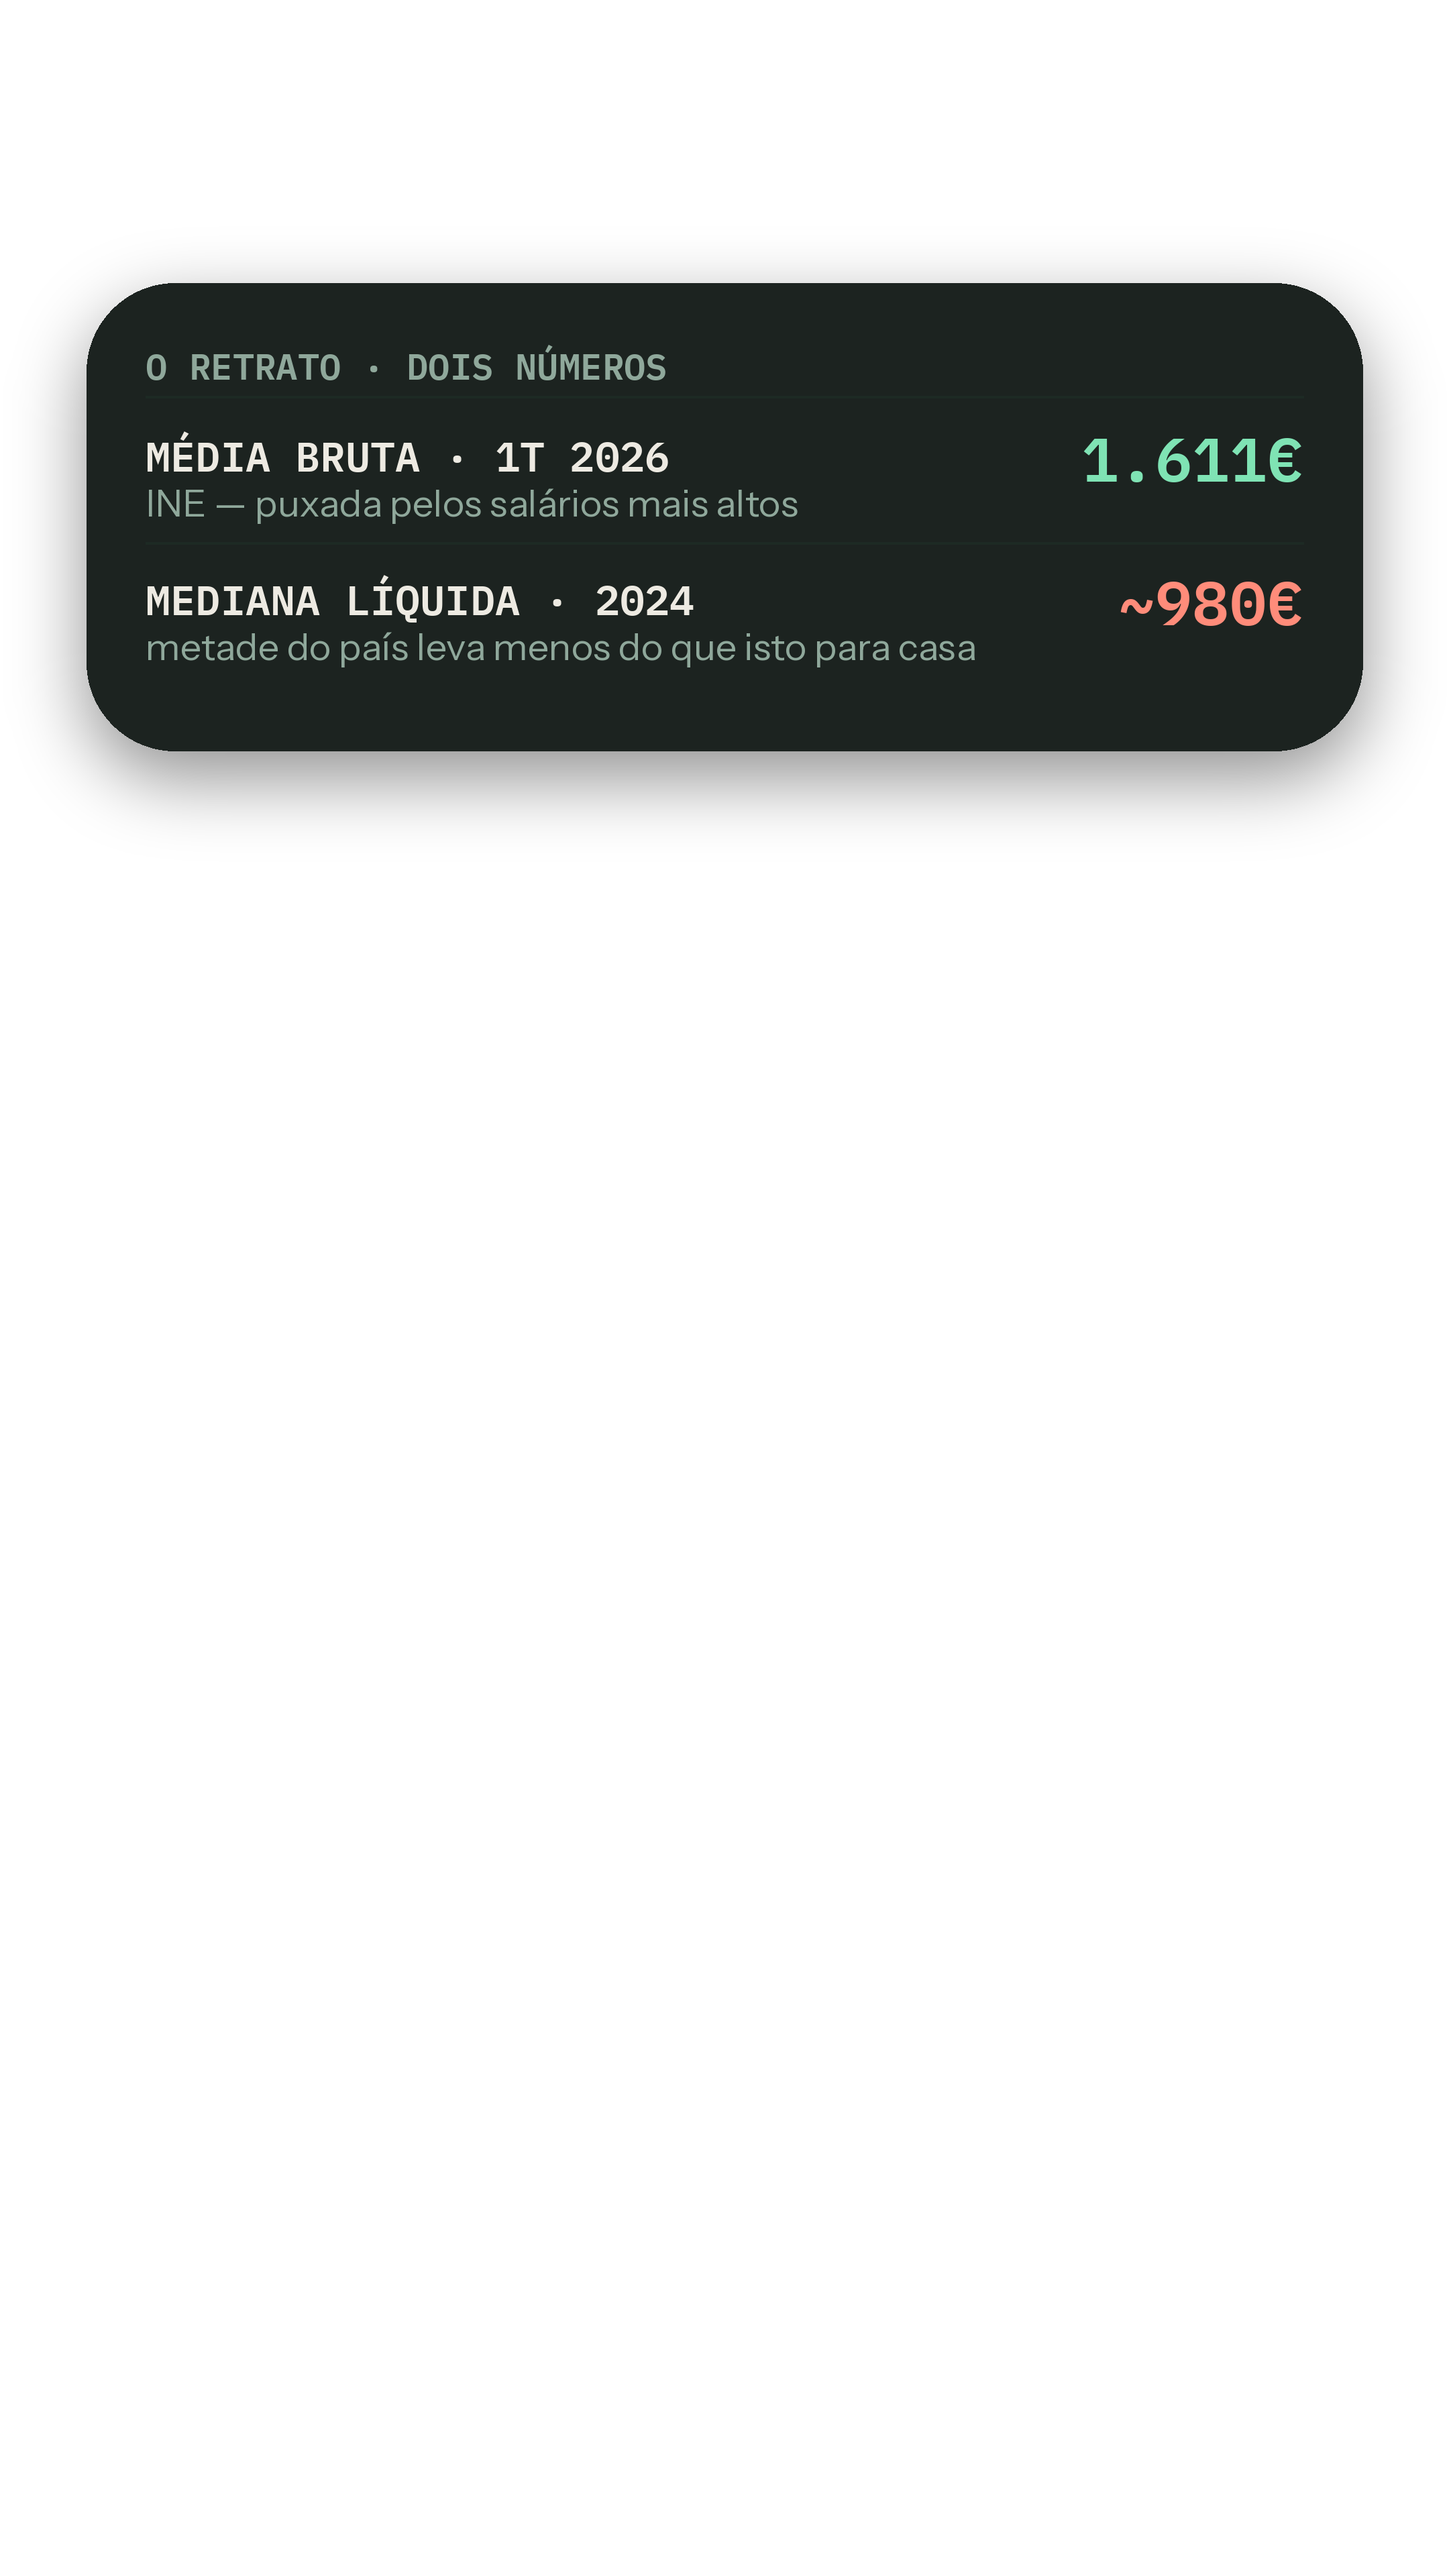
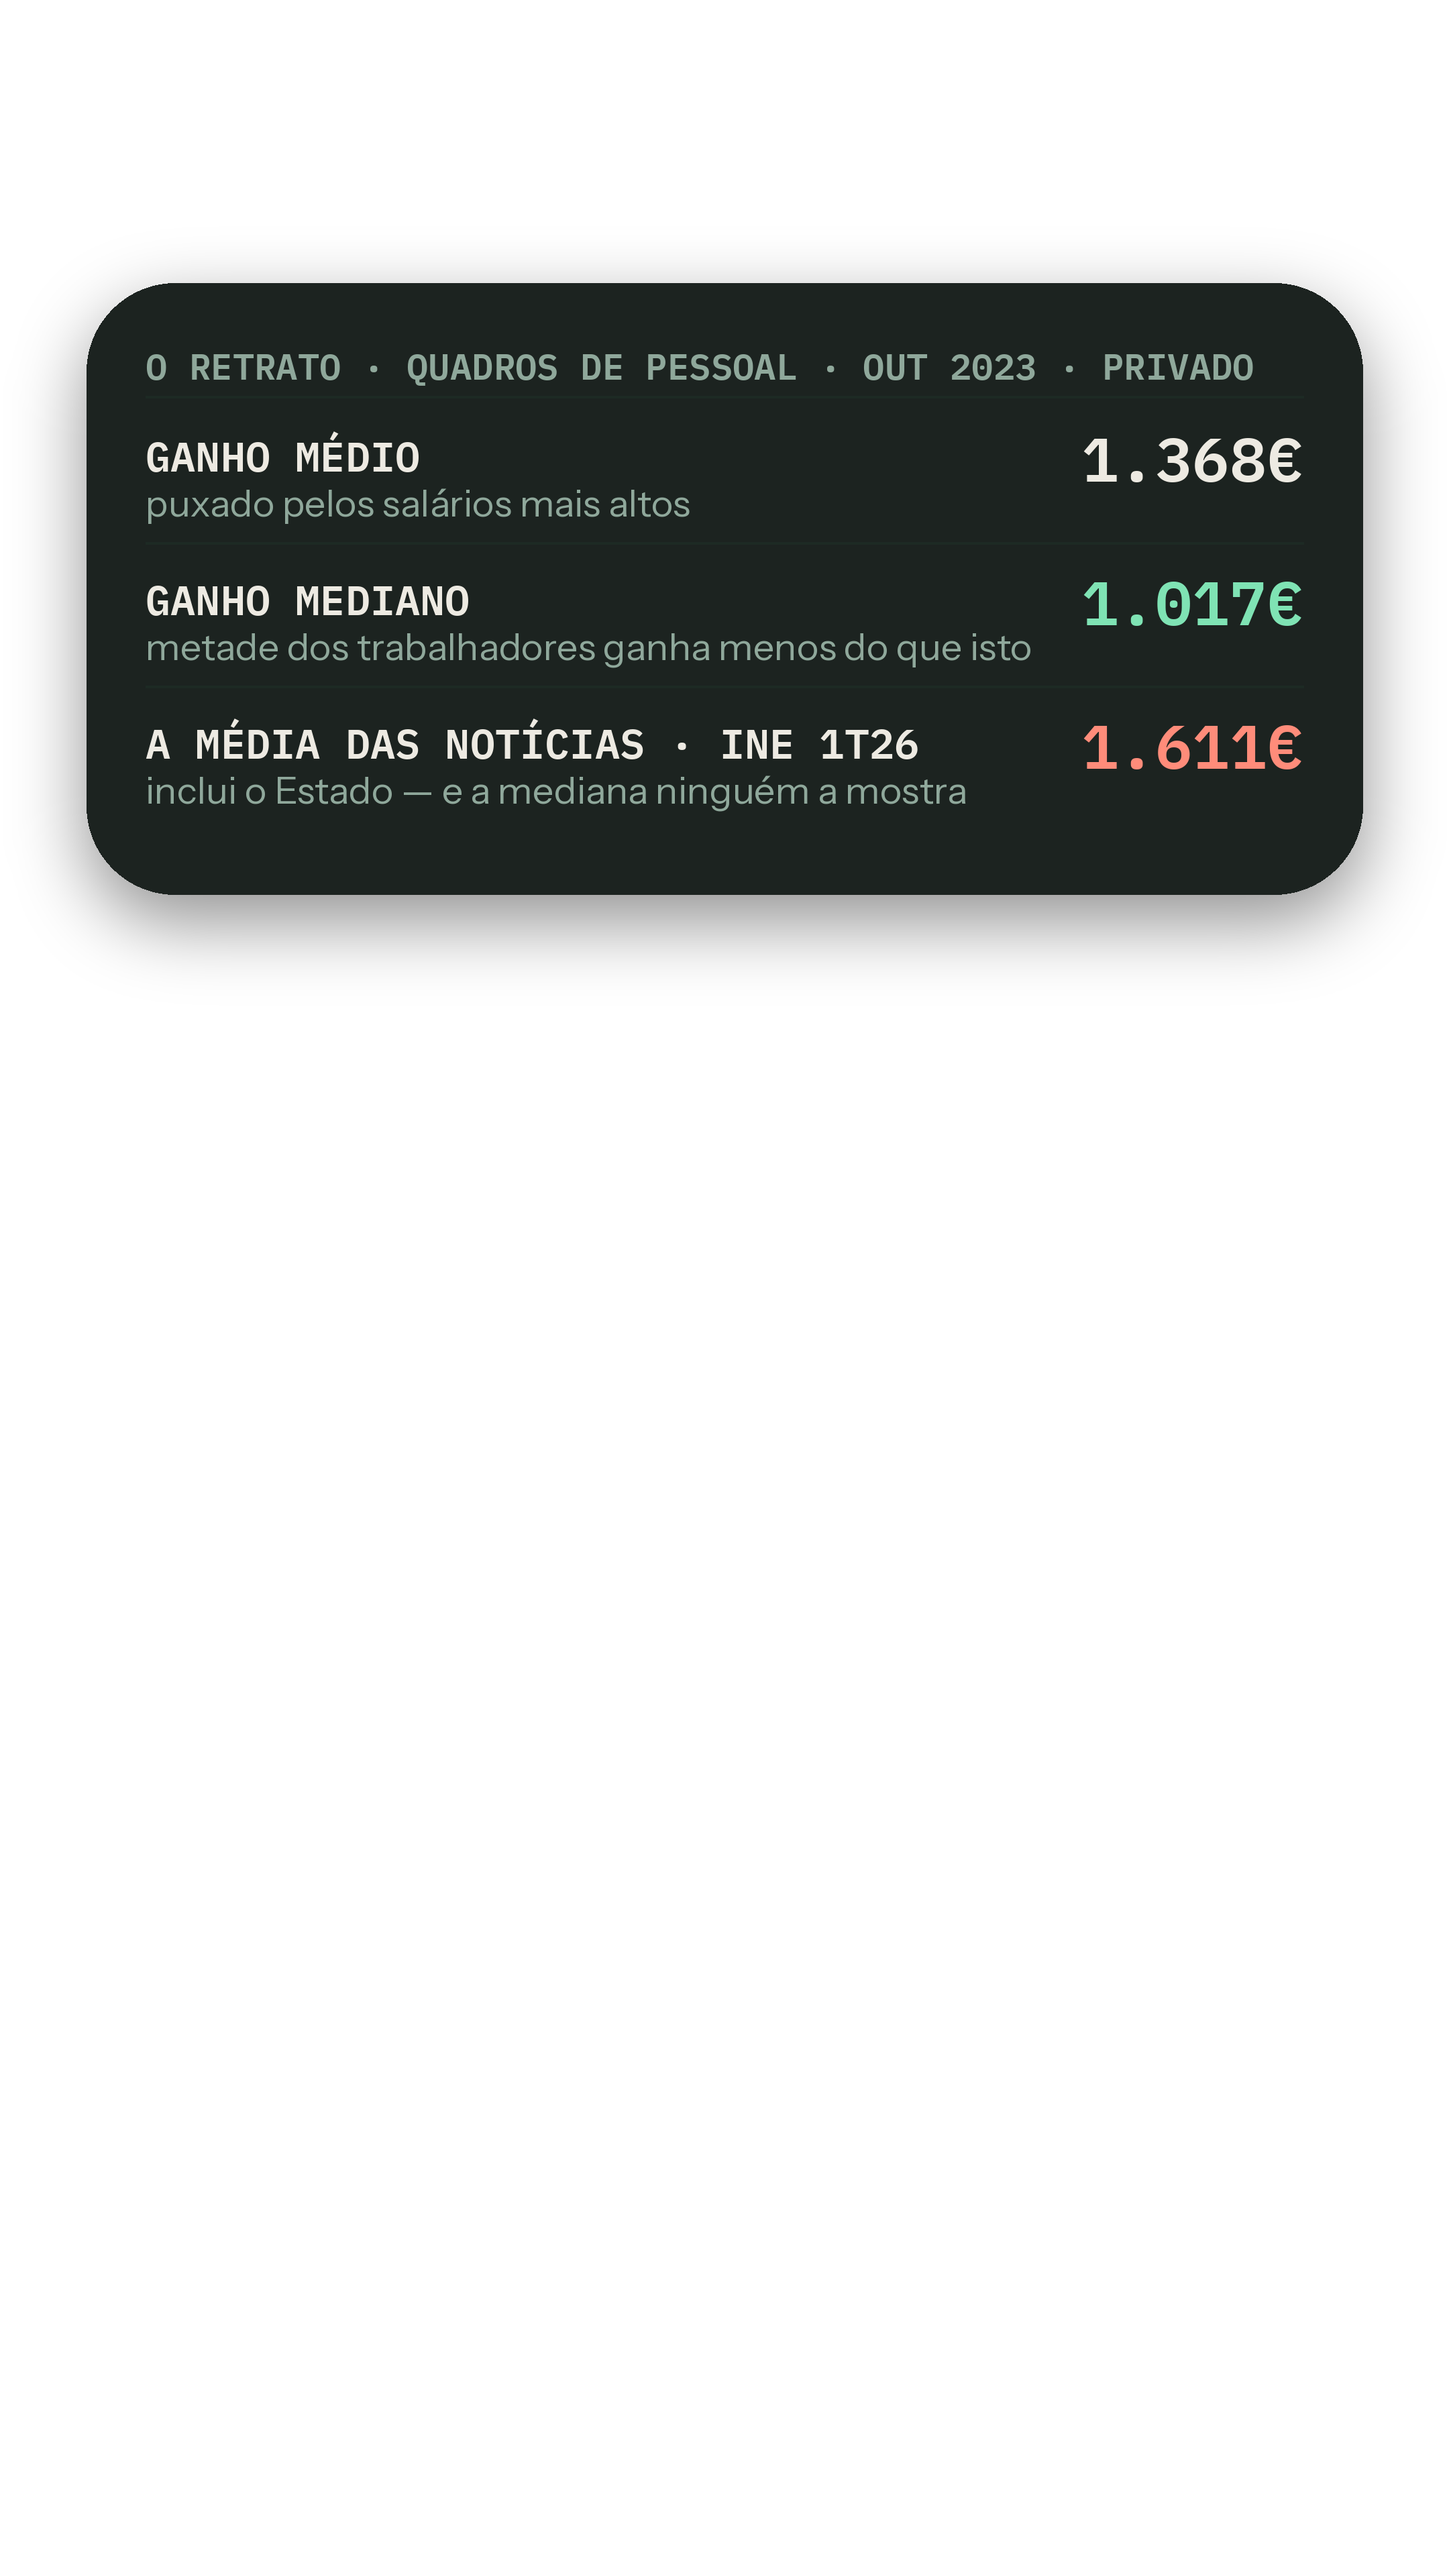
Add files via upload

diff --git a/producao/video-66/storyboard.html b/producao/video-66/storyboard.html
@@ -32,13 +32,13 @@ h2.sec{font-family:'Space Grotesk',sans-serif;font-size:18px;border-bottom:2px s
 a{color:var(--mint)}
 </style></head><body><div class="wrap">
 <header><div class="eyebrow">Storyboard de produção · identidade B3 Terminal Humano · timeline 4K</div>
-<h1>Vídeo #31 — 202 mil milhões a derreter <span style="color:var(--dim);font-size:.6em">· ~51s · 121 palavras</span></h1>
+<h1>Vídeo #31 — 202 mil milhões a derreter <span style="color:var(--dim);font-size:.6em">· ~52s · 120 palavras</span></h1>
 <div class="consts"><b><b>PUB #07</b> · 📅 Publicação sugerida: ter 18/ago · 19h00.</b> &nbsp;<b>Camadas CapCut:</b> V1 filmagem · V2 overlays PNG (100%, centrados) · V3 etiqueta de fonte (canto inf.-esq.) · V4 legendas (auto, estilo da amostra). <b>Regras:</b> cortes secos · 1 elemento de dado de cada vez · nada sobre a cara · números reconfirmados na fonte no dia (⚠ da nota de rigor).</div>
 </header>
 <div class="bloco"><div class="bhead"><h2>BLOCO 1</h2><span class="t">0-7s</span></div>
 <div class="phone"><div class="sil"></div><img class="ov" src="overlays/v66-1-hook.png" alt=""></div>
 <div class="spec">
-<div class="row"><span class="k">🎙 Fala</span><span class="fala">"O salário médio em Portugal é mil seiscentos e onze euros. E é provável que o teu não seja."</span></div>
+<div class="row"><span class="k">🎙 Fala</span><span class="fala">"O salário médio em Portugal, o das notícias: mil seiscentos e onze euros. E é provável que o teu não seja."</span></div>
 <div class="row"><span class="k">🎬 Câmara</span><span>Em movimento; meio sorriso no «não seja».</span></div>
 <div class="row"><span class="k">📺 Overlay</span><span><code>v66-1-hook.png</code></span></div>
 <div class="row"><span class="k">🏷 Etiqueta</span><span><code>fonte-ine.png</code> — FONTE: INE · 1T 2026</span></div>
@@ -51,31 +51,31 @@ a{color:var(--mint)}
 <div class="row"><span class="k">📺 Overlay</span><span><code>v66-2-mente.png</code></span></div>
 <div class="row"><span class="k">🏷 Etiqueta</span><span>fora (sem dado no ecrã)</span></div>
 </div></div>
-<div class="bloco"><div class="bhead"><h2>BLOCO 3</h2><span class="t">12-27s</span></div>
+<div class="bloco"><div class="bhead"><h2>BLOCO 3</h2><span class="t">12-29s</span></div>
 <div class="phone"><div class="sil"></div><img class="ov" src="overlays/v66-7-eixo.png" alt=""></div>
 <div class="spec">
-<div class="row"><span class="k">🎙 Fala</span><span class="fala">"A conta que interessa é a mediana — o valor que divide os trabalhadores ao meio: à volta de mil duzentos e quarenta brutos. Na prática, menos de mil euros líquidos. Metade do país vive abaixo desta linha."</span></div>
-<div class="row"><span class="k">🎬 Câmara</span><span>O eixo é o vídeo: apontar para a marca do meio.</span></div>
+<div class="row"><span class="k">🎙 Fala</span><span class="fala">"O último retrato completo dos salários do setor privado, do Ministério do Trabalho: média, 1.368. Mediana — o valor que divide os trabalhadores ao meio — 1.017. Metade do país a ganhar menos de mil e vinte euros brutos."</span></div>
+<div class="row"><span class="k">🎬 Câmara</span><span>O eixo é o vídeo; apontar a marca menta do meio. Dizer «setor privado» com clareza.</span></div>
 <div class="row"><span class="k">📺 Overlay</span><span><code>v66-7-eixo.png</code></span></div>
-<div class="row"><span class="k">🏷 Etiqueta</span><span><code>fonte-ine.png</code> — FONTE: INE/GEP · QUADROS DE PESSOAL</span></div>
+<div class="row"><span class="k">🏷 Etiqueta</span><span><code>fonte-mtsss.png</code> — FONTE: MTSSS · QUADROS DE PESSOAL · OUT 2023</span></div>
 </div></div>
-<div class="bloco"><div class="bhead"><h2>BLOCO 4</h2><span class="t">27-34s</span></div>
+<div class="bloco"><div class="bhead"><h2>BLOCO 4</h2><span class="t">29-36s</span></div>
 <div class="phone"><div class="sil"></div><div class="noov">SEM OVERLAY — só tu e a câmara</div></div>
 <div class="spec">
-<div class="row"><span class="k">🎙 Fala</span><span class="fala">"E o chão do mapa: um em cada cinco trabalhadores ganha o mínimo — 920 euros."</span></div>
-<div class="row"><span class="k">🎬 Câmara</span><span>MANTER o eixo no ecrã; apontar para a esquerda.</span></div>
+<div class="row"><span class="k">🎙 Fala</span><span class="fala">"E o chão do mapa: hoje, um em cada cinco trabalhadores ganha o mínimo — 920 euros."</span></div>
+<div class="row"><span class="k">🎬 Câmara</span><span>MANTER o eixo; apontar para a esquerda.</span></div>
 <div class="row"><span class="k">📺 Overlay</span><span>nenhum (manter o anterior / respiro)</span></div>
 <div class="row"><span class="k">🏷 Etiqueta</span><span>fora (sem dado no ecrã)</span></div>
 </div></div>
-<div class="bloco"><div class="bhead"><h2>BLOCO 5</h2><span class="t">34-42s</span></div>
+<div class="bloco"><div class="bhead"><h2>BLOCO 5</h2><span class="t">36-43s</span></div>
 <div class="phone"><div class="sil"></div><img class="ov" src="overlays/v66-4-porque.png" alt=""></div>
 <div class="spec">
-<div class="row"><span class="k">🎙 Fala</span><span class="fala">"Porquê a diferença para a média? Meia dúzia de salários muito altos puxam-na para cima. A mediana ignora-os."</span></div>
+<div class="row"><span class="k">🎙 Fala</span><span class="fala">"Porquê tão longe da média? Meia dúzia de salários muito altos puxam-na para cima. A mediana ignora-os."</span></div>
 <div class="row"><span class="k">🎬 Câmara</span><span>Gesto de puxar para cima.</span></div>
 <div class="row"><span class="k">📺 Overlay</span><span><code>v66-4-porque.png</code></span></div>
 <div class="row"><span class="k">🏷 Etiqueta</span><span>fora (sem dado no ecrã)</span></div>
 </div></div>
-<div class="bloco"><div class="bhead"><h2>BLOCO 6</h2><span class="t">42-47s</span></div>
+<div class="bloco"><div class="bhead"><h2>BLOCO 6</h2><span class="t">43-48s</span></div>
 <div class="phone"><div class="sil"></div><img class="ov" src="overlays/v66-5-reframe.png" alt=""></div>
 <div class="spec">
 <div class="row"><span class="k">🎙 Fala</span><span class="fala">"Quando vires «salário médio» numa notícia, pergunta sempre: e a mediana?"</span></div>
@@ -83,7 +83,7 @@ a{color:var(--mint)}
 <div class="row"><span class="k">📺 Overlay</span><span><code>v66-5-reframe.png</code></span></div>
 <div class="row"><span class="k">🏷 Etiqueta</span><span>fora (sem dado no ecrã)</span></div>
 </div></div>
-<div class="bloco"><div class="bhead"><h2>BLOCO 7</h2><span class="t">47-51s</span></div>
+<div class="bloco"><div class="bhead"><h2>BLOCO 7</h2><span class="t">48-52s</span></div>
 <div class="phone"><div class="sil"></div><img class="ov" src="overlays/v66-6-cta.png" alt=""></div>
 <div class="spec">
 <div class="row"><span class="k">🎙 Fala</span><span class="fala">"Acima ou abaixo da linha do meio? Não precisas de dizer o número."</span></div>
@@ -91,14 +91,14 @@ a{color:var(--mint)}
 <div class="row"><span class="k">📺 Overlay</span><span><code>v66-6-cta.png</code></span></div>
 <div class="row"><span class="k">🏷 Etiqueta</span><span>fora (sem dado no ecrã)</span></div>
 </div></div>
-<h2 class="sec">Descrição do post (copiar tal e qual)</h2><div class="pos">O salário médio em Portugal é 1.611€. E metade do país leva para casa menos de mil.
+<h2 class="sec">Descrição do post (copiar tal e qual)</h2><div class="pos">O salário médio das notícias: 1.611€. O último retrato completo do privado diz outra coisa: metade dos trabalhadores ganha menos de 1.020€ brutos.
 
-As duas frases são verdade — a diferença chama-se mediana, e muda a forma como lês qualquer notícia sobre salários.
+A diferença tem nome — mediana — e muda a forma como lês qualquer notícia sobre salários.
 
-Acima ou abaixo da linha? Não precisas de dizer o número 👇
+Acima ou abaixo da linha do meio? Não precisas de dizer o número 👇
 
-#salários #mediana #portugal #financaspessoais</div>
+#salários #mediana #portugal #financaspessoais #fcd66</div>
 <h2 class="sec">1.º comentário — publicar e FIXAR</h2><div class="pos">Acima ou abaixo da linha do meio? (não precisas de dizer o número 👇)
-(para os céticos: tudo em BRUTO e por mês, na base habitual dos 14 pagamentos. Média 1.611€ — INE, 1T 2026; mediana bruta ~1.240€ — Quadros de Pessoal (confirmo o valor exato no INE/GEP antes de publicar e atualizo aqui se mudar); mínimo 920€, onde está ~1 em cada 5 trabalhadores — Seg. Social/MTSSS. Em líquido, a mediana fica abaixo dos mil euros)</div>
+(rigor completo: mediana 1.017€ e média 1.368€ — GEP/Ministério do Trabalho, Quadros de Pessoal, outubro 2023, setor PRIVADO a tempo completo (exclui função pública). A média de 1.611€ — INE, 1T 2026 — inclui todos os setores; universos e datas diferentes, e é por isso que o eixo mostra a data de cada número. Mínimo 920€ em 2026, onde está ~1 em cada 5 trabalhadores — MTSSS. Quando sair o retrato mais recente, atualizo aqui)</div>
 <h2 class="sec">Fecho</h2><div class="pos"><b>Exportar</b> 2160p · 30fps → capa (matriz: 1.611€ / MAS METADE GANHA MENOS DE MIL / a média mente) → publicar → nota fixada → 60 min de comentários → dashboard → ⬇ performance.json</div>
 </div></body></html>
